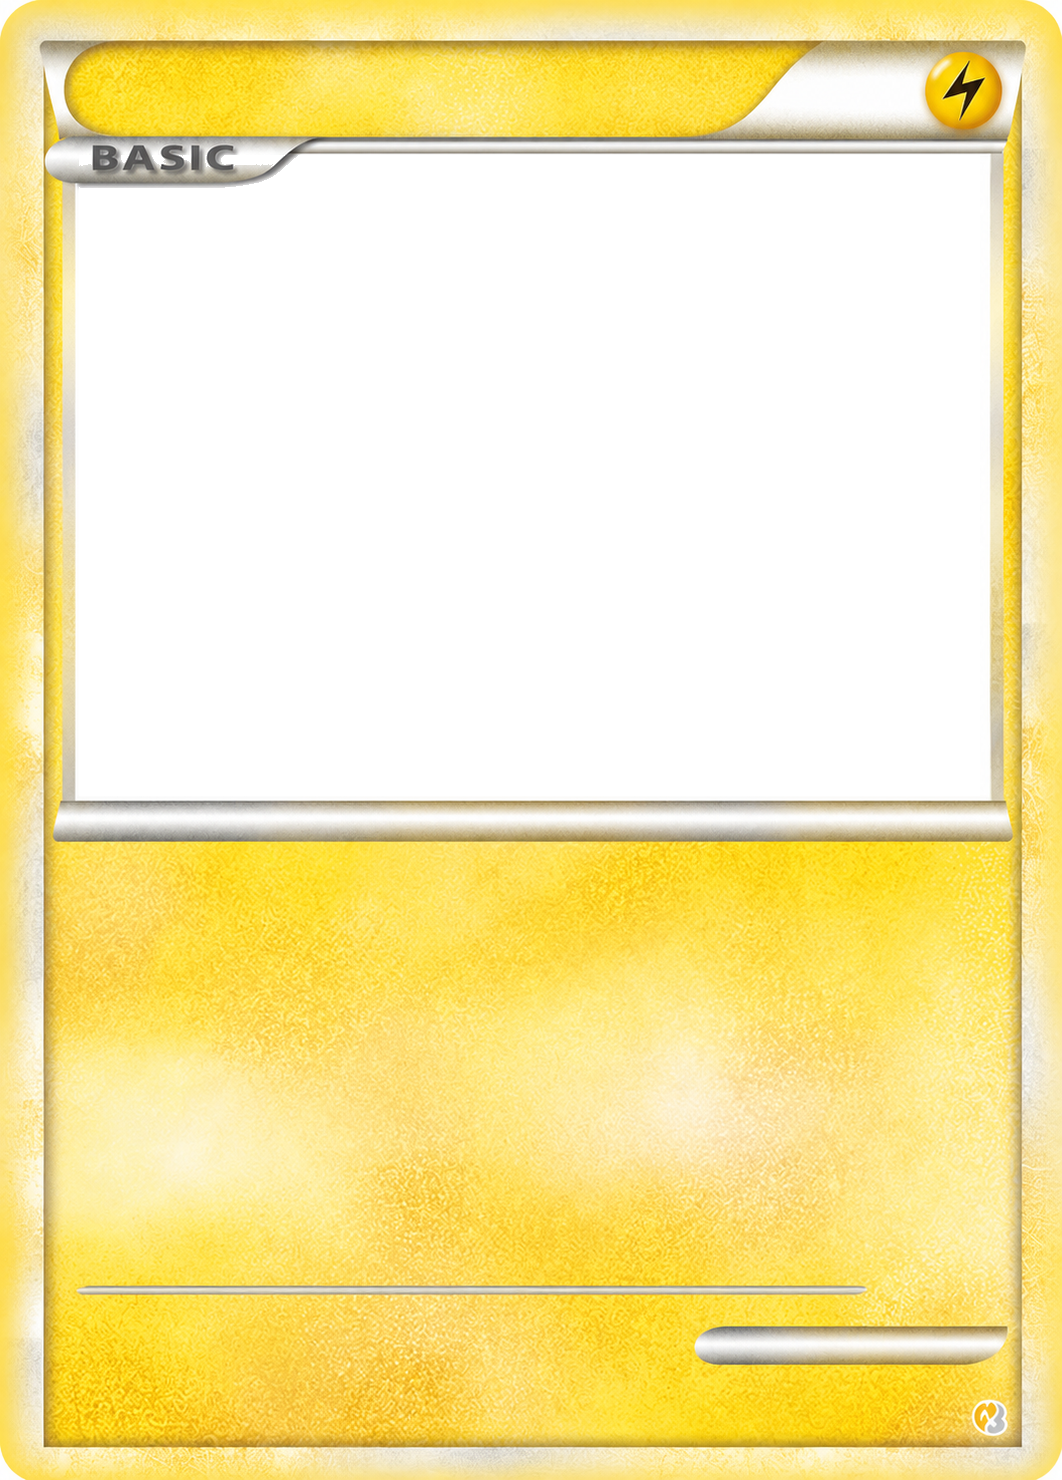
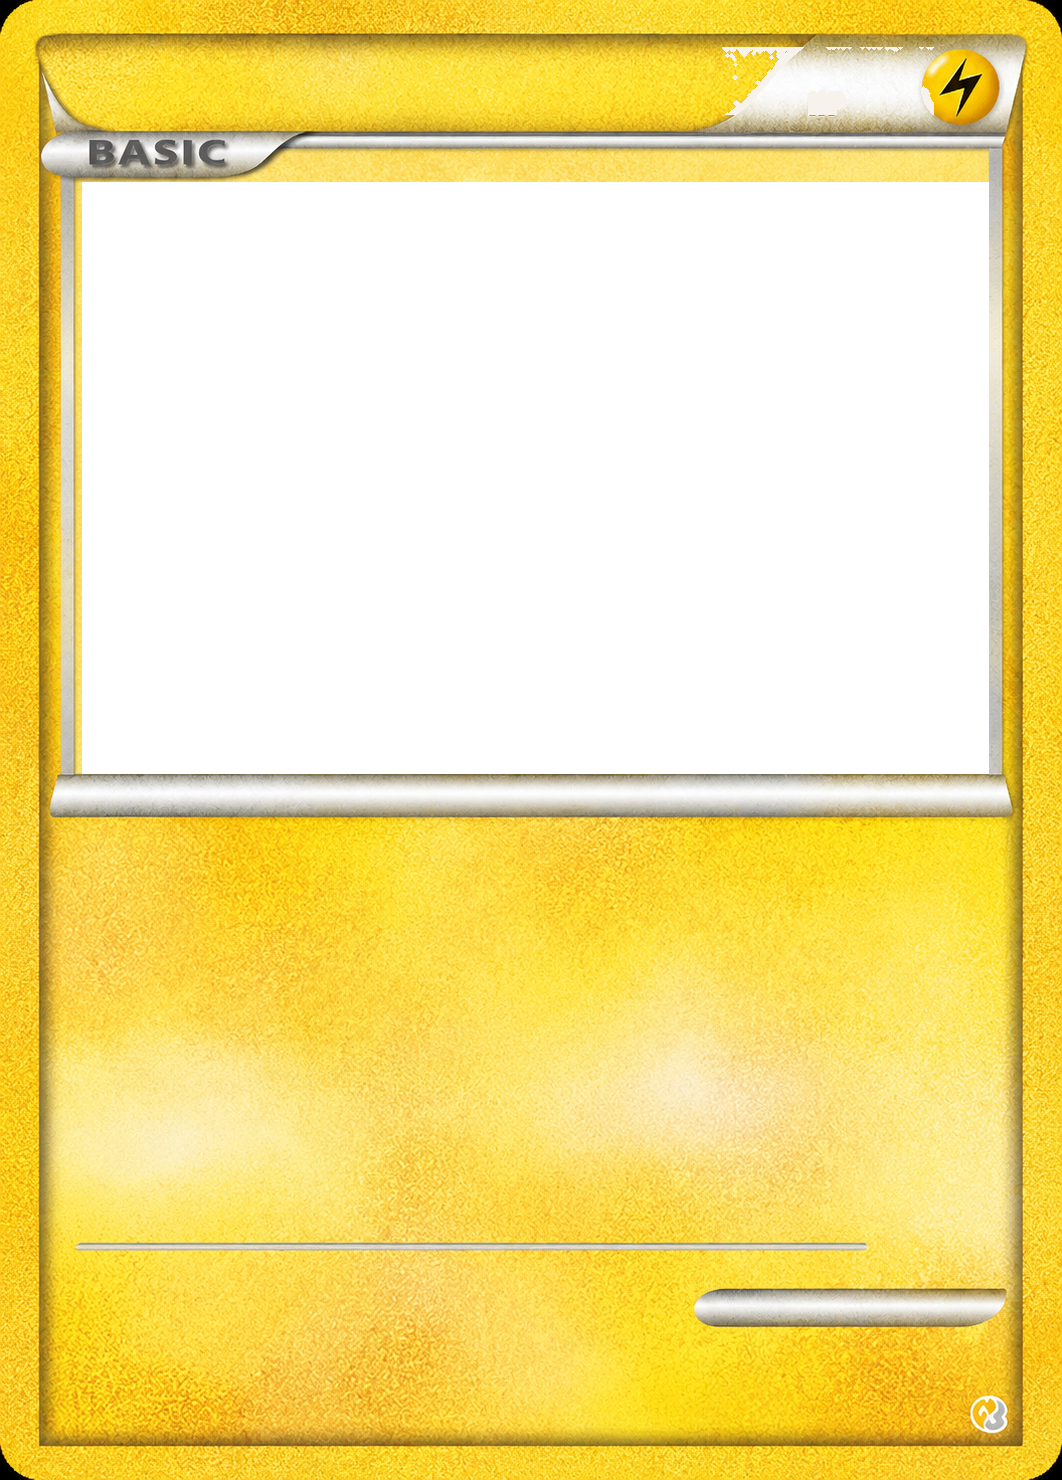
Replace HGSS lightning with Yellow_template; reapply grass
Swap buggy electric PNG for the fixed Yellow_template (yellow art hole,
BASIC-safe rect punch, layout near fire). Reprocess basic-leaf as grass
and bump template cache to v=7.

diff --git a/src/components/ui/TcgCard.tsx b/src/components/ui/TcgCard.tsx
@@ -59,8 +59,8 @@ const HGSS_GAMES = new Set(['HeartGold', 'SoulSilver']);
  */
 const HGSS_BASIC_ART_WINDOW: Record<string, { left: number; top: number; width: number; height: number }> = {
   fire:      { left: 7.34, top: 10.34, width: 85.22, height: 41.96 },
-  // Hole punched through white to just above silver lip (~54%).
-  lightning: { left: 7.34, top: 10.34, width: 85.22, height: 43.60 },
+  // Yellow_template.png (fixed lightning): yellow art fill punched as rect below BASIC tab.
+  lightning: { left: 7.72, top: 12.30, width: 85.40, height: 40.00 },
   // Leaf source resized 1054×1492 → 1062×1480; silver lip lower than fire.
   grass:     { left: 7.34, top: 10.61, width: 85.40, height: 43.50 },
 };
@@ -85,15 +85,15 @@ const HGSS_LAYOUT: Record<string, {
     footerTop: '90.4%',
   },
   lightning: {
-    // Silver lip mid ~54.5–55.5%; bottom rule ~87%; held pill ~90.5%.
-    dataBarTop: '54.9%',
-    attacksTop: '58.0%',
-    statBoxTop: '87.7%',
-    heldPillTop: '90.3%',
-    footerTop: '92.8%',
+    // New Yellow_template: silver lip ~52.3%, bottom rule ~84.1% (near fire).
+    dataBarTop: '53.2%',
+    attacksTop: '56.9%',
+    statBoxTop: '85.3%',
+    heldPillTop: '87.1%',
+    footerTop: '89.6%',
   },
   grass: {
-    // Silver lip starts ~54.3%; bottom rule ~86.3% (closer to lightning than fire).
+    // Silver lip starts ~54.3%; bottom rule ~86.3% (lower than fire).
     dataBarTop: '55.2%',
     attacksTop: '58.5%',
     statBoxTop: '87.5%',
@@ -122,7 +122,7 @@ function resolveHgssTemplate(
   if (!stageKey) return null;
   if (stageKey === 'basic' && HGSS_BASIC_ENERGIES.has(energyKey)) {
     // ?v= bumps when templates are reprocessed (art hole / corners).
-    return `/cards/gen4/templates/${stageKey}-${energyKey}.png?v=6`;
+    return `/cards/gen4/templates/${stageKey}-${energyKey}.png?v=7`;
   }
   return null;
 }

diff --git a/STATUS.md b/STATUS.md
@@ -33,8 +33,8 @@ Key UI: collection list + **card grid**, dex entry carousel, filters/sort, Home 
 **Source templates (user-provided):**  
 `~/Desktop/HGSS_Card_Templates/`  
 - `Basic_fire_Gen4.png`  
-- `basic_electric_tempalte_gen4.png` (typo in filename is fine; keep as-is)  
-- `basic_leaf_template.png` → wired as **grass**  
+- `Yellow_template.png` → **lightning** (replaces buggy `basic_electric_tempalte_gen4.png`)  
+- `basic_leaf_template.png` → **grass**  
 - Reference full cards (not blanks): `basic_water.jpg` (Lapras), `Basic_fight.jpg` (Tyrogue), `basic_psyhic.jpg` (Wobbuffet)  
 - Reference scans under `actualcards/`
 
@@ -47,11 +47,17 @@ See `TCG_BABY_SPECIES` + `tcgStageLabel()` in `TcgCard.tsx`.
 **Layout:** OT on silver lip under art; moves; IV/EV under bottom rule; held in Illus. pill; weakness + location bottom-right.  
 Fire / lightning / grass use **per-energy vertical anchors** in `HGSS_LAYOUT` (PNG geometry is not identical).
 
-**Grass layout notes (2026-07-11):**  
-- Source was 1054×1492; resized to **1062×1480**, near-white punched transparent (thr 248).  
-- Silver lip starts ~**54.3%** (lower than fire); bottom rule ~**86.3%**.  
-- Art window: `{ left: 7.34, top: 10.61, width: 85.40, height: 43.50 }`.  
-- Layout closer to lightning than fire.
+**Grass layout notes:**  
+- Source `basic_leaf_template.png` 1054×1492 → **1062×1480**, near-white punch (thr 248).  
+- Silver lip ~**54.3%**; bottom rule ~**86.3%**.  
+- Art window: `{ left: 7.34, top: 10.61, width: 85.40, height: 43.50 }`.
+
+**Lightning / Yellow_template notes (re-export 2026-07-11):**  
+- Source already **1062×1480**; art fill is **yellow** (not white) — rectangular punch, not white-key.  
+- Art top must sit **below BASIC tab** (~12.3%) so the badge stays opaque.  
+- Baked “HP” on silver wedge was cleared so CSS overlay stays single.  
+- Silver lip ~**52.3%**; bottom rule ~**84.1%** (near fire).  
+- Art window: `{ left: 7.72, top: 12.30, width: 85.40, height: 40.00 }`.
 
 **Art:**  
 - Maps: `src/core/constants/gen4-card-art.ts` (`GEN4_CARD_ART_HGSS` / PL / DP)  
@@ -110,13 +116,13 @@ Fire / lightning / grass use **per-energy vertical anchors** in `HGSS_LAYOUT` (P
 7. Hard-refresh; then push `main` for Vercel
 
 **Stage templates:** `resolveHgssTemplate` already maps Stage 1/2 names → `stage1` / `stage2` filenames; only **basic** + fire/lightning/grass are allow-listed today.  
-**Template cache:** `?v=6` on HGSS template URLs.
+**Template cache:** `?v=7` on HGSS template URLs.
 
 ### Known card quirks / polish
 
 - [ ] Per-species hand crops still needed when flavor bar or framing is ugly (Charmander PL was hand-fixed; others may need same)
-- [ ] Lightning layout still slightly different from fire (template geometry); re-export electric template matching fire’s art/lip Y if you want 100% shared CSS
-- [ ] Grass layout also differs slightly (lip lower); fine as per-energy layout
+- [ ] Grass layout differs slightly (lip lower); fine as per-energy layout
+- [ ] Yellow_template HP clear leaves a slight smudge on silver wedge (harmless under CSS HP)
 - [ ] Gen 2 has art + CSS frame only (no real Neo PNG templates yet)
 - [ ] Gen 3: no TCG art path (null art)
 - [ ] Stage 1/2 still use CSS placeholder even for Fire/Electric/Grass
@@ -150,9 +156,9 @@ Fire / lightning / grass use **per-energy vertical anchors** in `HGSS_LAYOUT` (P
 ## Recent git (card work)
 
 ```
-(pending) HGSS Basic Grass card template
+(pending) Replace lightning with Yellow_template; re-apply grass
+691128b Add HGSS Basic Grass card template
 28ccc46 HGSS Basic Lightning cards, type sort, and art/layout fixes
-29404e6 Add HGSS Basic Fire card template with game-data overlays
 ```
 
 ---
